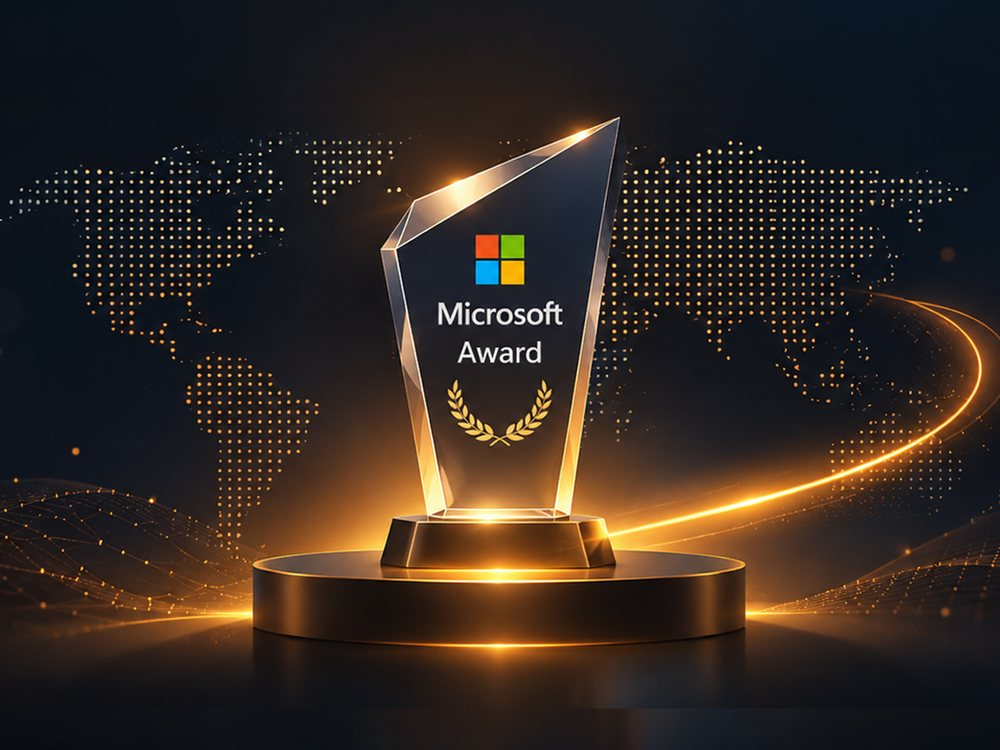
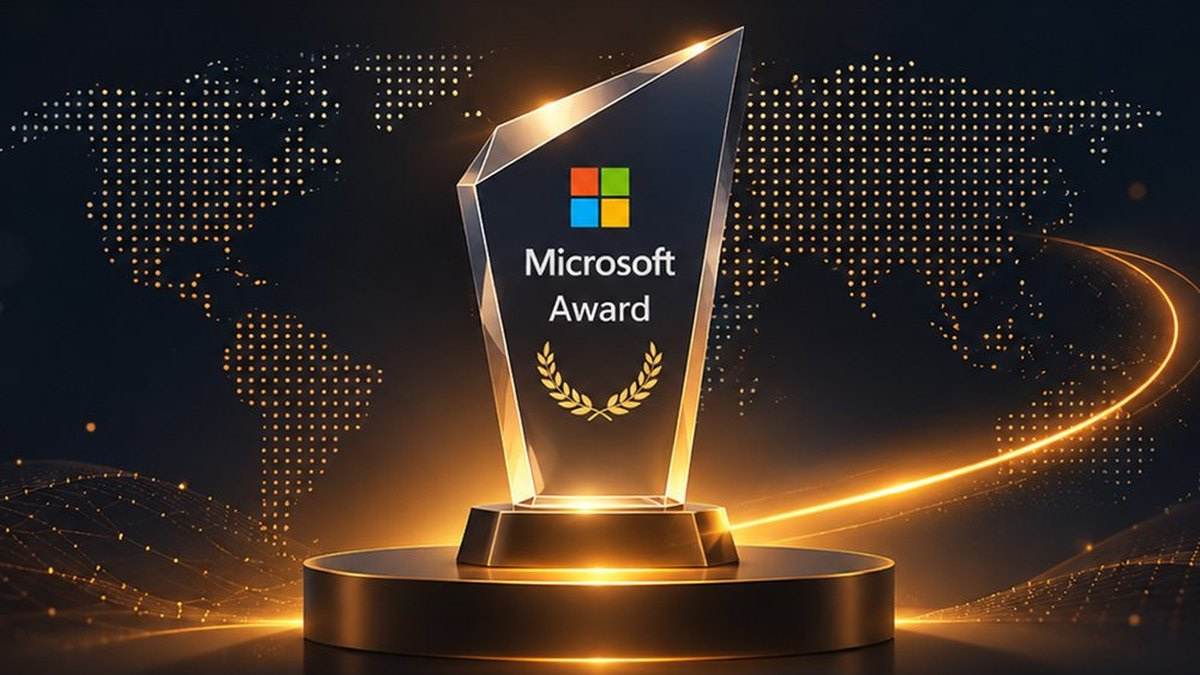
Journey: Microsoft Award photo sizing + Ekatm web app on a laptop screen (#58)
* About Us journey: add 1999 PetroSoft, 2000-2002 partners, 2004-2005, 2009, 2012, 2013 milestones

Year ranges (until) show as 2000-2002 on the counter and rail; the year rail
scrolls sideways on phones and follows the year shown.

Claude-Session: https://claude.ai/code/session_013ohLoae2KdQbwUZuegWfPi

* Journey 2000-2002: partners and AdatSoft/PetroSoft spread side by side

Claude-Session: https://claude.ai/code/session_013ohLoae2KdQbwUZuegWfPi

* Journey: remove 2009 milestone

Claude-Session: https://claude.ai/code/session_013ohLoae2KdQbwUZuegWfPi

* Journey 2013: Mindwave Media established for rural marketing solutions

Claude-Session: https://claude.ai/code/session_013ohLoae2KdQbwUZuegWfPi

* Journey: add 2016-2017 Ekatm ERP web version and mobile app launch

Claude-Session: https://claude.ai/code/session_013ohLoae2KdQbwUZuegWfPi

* Journey 2012: animated map, bus drives from Maharashtra to Karnataka and Punjab

AudiowalaMap takes states (subset, in order) and branch (every leg from the first state).

Claude-Session: https://claude.ai/code/session_013ohLoae2KdQbwUZuegWfPi

* Journey 1999: PetroSoft India launch photo

Claude-Session: https://claude.ai/code/session_013ohLoae2KdQbwUZuegWfPi

* Journey: AdatSoft/PetroSoft map with travelling logos (2000-2002), new Pandharpur activation photo (2008)

AudiowalaMap gains logos (replace the bus with a logo card) and label props;
Telangana added to the map data as an extra state used only when asked for.
[…]

diff --git a/src/data/about.ts b/src/data/about.ts
@@ -28,6 +28,8 @@ export type JourneyMilestone = {
   slides?: { src: string; width: number; height: number; alt: string }[];
   /** Show the slides two at a time, side by side, instead of one by one. */
   pair?: boolean;
+  /** Show the slides on the screen of a laptop drawing (app screenshots). */
+  laptop?: boolean;
   // An animated map instead of a photo (src/components/group/AudiowalaMap.astro).
   map?: 'audiowala';
   // Only these states on the map, in the order the bus visits them (default: all 8).
@@ -44,7 +46,7 @@ export type JourneyMilestone = {
   // (The year's own title is then not shown; keep it as a one-line summary.)
   parts?: JourneyPart[];
 };
-export type JourneyPart = Pick<JourneyMilestone, 'title' | 'text' | 'points' | 'image' | 'people' | 'icon' | 'map' | 'mapStates' | 'mapBranch' | 'mapLogos' | 'mapLabel' | 'slides' | 'pair'>;
+export type JourneyPart = Pick<JourneyMilestone, 'title' | 'text' | 'points' | 'image' | 'people' | 'icon' | 'map' | 'mapStates' | 'mapBranch' | 'mapLogos' | 'mapLabel' | 'slides' | 'pair' | 'laptop'>;
 
 // People on the timeline show their current photo and designation from
 // Meet our Management (src/data/management.ts), so a title change there shows here too.
@@ -132,7 +134,7 @@ export const journey: JourneyMilestone[] = [
       {
         icon: 'award',
         title: '[[Vritti Solutions Limited]] won the **Microsoft Award**',
-        image: { src: '/images/about/journey/microsoft-award.jpg', width: 1000, height: 750, alt: 'Microsoft Award trophy' },
+        image: { src: '/images/about/journey/microsoft-award.jpg', width: 1200, height: 675, alt: 'Microsoft Award trophy' },
       },
     ],
   },
@@ -171,6 +173,10 @@ export const journey: JourneyMilestone[] = [
       {
         icon: 'erp',
         title: '**Ekatm ERP** web version was launched',
+        laptop: true,
+        slides: [
+          { src: '/images/about/journey/ekatm-web-dashboard.jpg', width: 1600, height: 724, alt: 'Ekatm ERP web application dashboard' },
+        ],
       },
       {
         icon: 'mobile',
